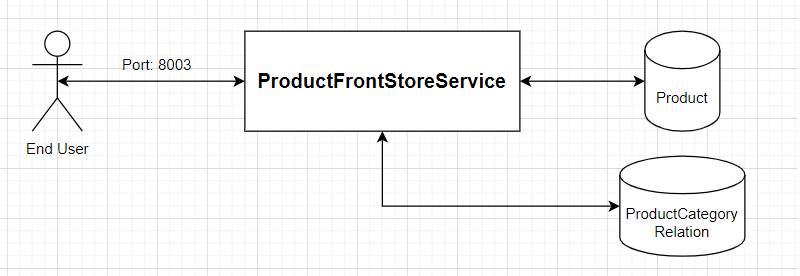
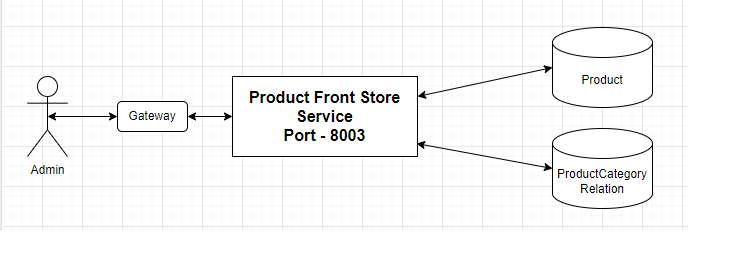
<Product_FrontStore>|Updated Readme|<Pooja>

diff --git a/Product_FrontStore/README.md b/Product_FrontStore/README.md
@@ -1,20 +1,44 @@
-#Product Front Store Service
-This service is responsible for following operations which are written for front store / customer
-    - Get all product details
-    - Get product details by product id 
-    - Get Product by category id
+# Product Admin Service
+This service is responsible for fetcing product details for the front store/ user. 
 
-![design diagram](https://github.com/swiggy-2022-bootcamp/cdp-team4/blob/product_admin/Product_FrontStore/DesignDiagram.png)
+![design diagram](https://github.com/swiggy-2022-bootcamp/cdp-team4/blob/product_front_store/Product_FrontStore/DesignDiagram.png)
+### Steps to setup locally
+##### Using Docker compose
 
-##Steps to run the service locally 
--- with docker 
--- without docker
+```
+> docker-compose up
+```
 
-##Swagger documentation - 
-    swagger documentation can be found at below url
-        http://localhost:8004/swagger/index.html#/
-    update swagger documentation with new changes 
-        >> swag init 
+##### Using Docker
+```
+# Build docker Image
+> docker build -t cdp-team4/product-front-store .
+# Run docker image
+> docker run -p 8003:8003 -d --name product-front-store cdp-team4/product-front-store
+```
 
-##Reference- 
-    https://weihungchin.medium.com/how-to-set-up-sonarqube-in-windows-mac-and-linux-using-docker-3959c5a95eb2
+##### Without docker 
+
+```
+# Download golang dependencies
+> go mod download
+# Start the CMD server
+> go run cmd/main.go
+```
+
+##### Swagger docs - 
+```
+Swagger documentation can be found at the following url - 
+[http://localhost:8003/swagger/index.html#/]
+#Command to regenerate swagger docs
+> swag init -g main.go --output docs/
+```
+
+### Routes supported
+| Method | Route | Description | 
+| ------ | ------ | ------ | 
+| GET | / | Route for Product service health check | 
+| GET | /products/ | Route for Admin to Get All Products | 
+| GET | /products/:id | Route for Admin to Get Product details given Product ID | 
+| PUT | /products/category/:id | Route for Admin to Get Product Details given Category ID | 
+
